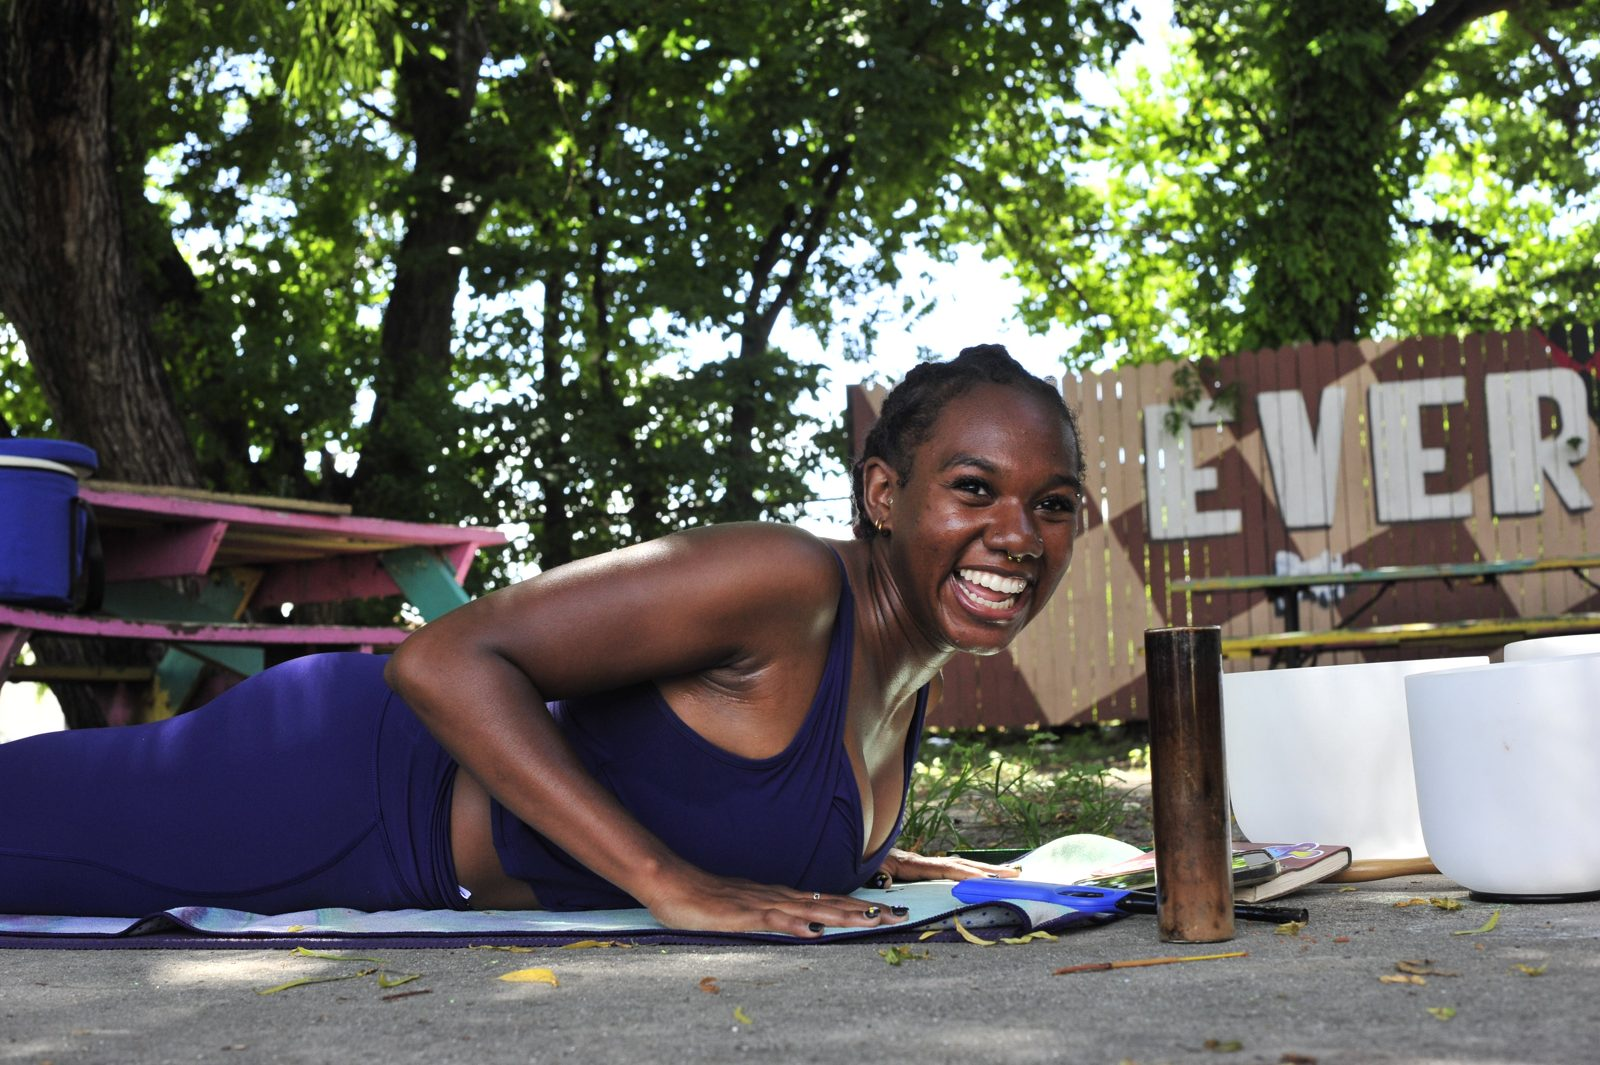
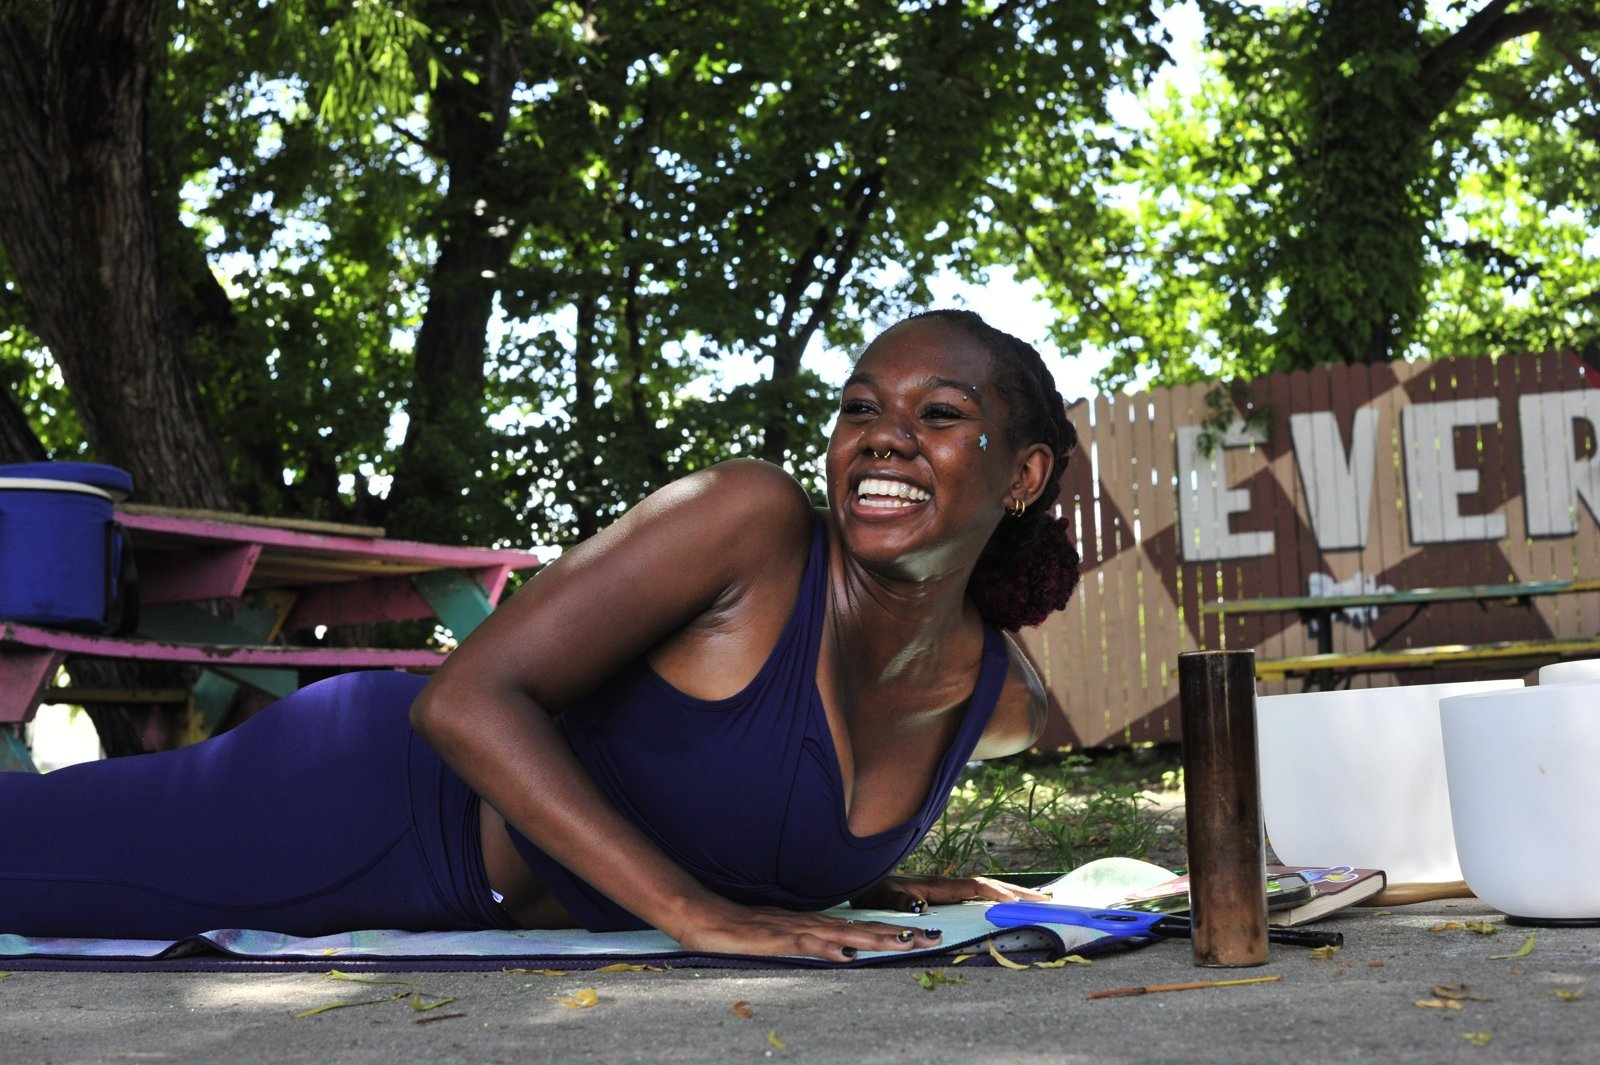
0002: teaching photo is Nahnah's own favorite (#3, _FSM6177)
One of the four favorites she texted on 2026-11-24. Frankie: 'Yes, use #3'.
Alt text matches the new frame; the caption still holds.

diff --git a/0002/index.html b/0002/index.html
@@ -139,7 +139,7 @@
 
         <figure class="feature-inline">
           <img src="images/teaching.jpg" width="1600" height="1065" loading="lazy"
-               alt="Nahnah laughs while holding a low plank on a yoga mat under shade trees, crystal singing bowls set out on the ground beside her.">
+               alt="Nahnah laughs, propped on one forearm on a yoga mat under shade trees, with crystal singing bowls and a notebook on the ground beside her.">
           <figcaption>Teaching under the trees, July 2026. Photograph by Frankie Mohammed.</figcaption>
         </figure>
 
